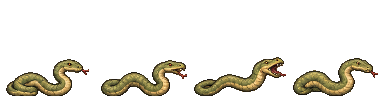
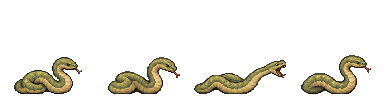
fix: align v1.2.4 feed display and seasonal artwork

diff --git a/tests/test_v124.c b/tests/test_v124.c
@@ -415,7 +415,52 @@ void test_v124_catalog(void) {
 }
 
 void test_v124_harvest_actual_tick(void) {
-    World *w=fresh124(42);CHECK(w);Building *b=facility124(w,CORE_BLD_CROPLAND,20,20);CHECK(b);b->crop_year=1;b->crop_labor_milli=2*540*24*1000;
-    w->clock.tick=24*144+47;CHECK_EQ(core_tick(w,1),CORE_OK);CHECK_EQ(b->annual_harvest_total,360000);CHECK_EQ(b->annual_harvest_released,36000);CHECK_EQ(b->annual_harvest_day,25);
-    CHECK_EQ(core_tick(w,1),CORE_OK);CHECK_EQ(b->annual_harvest_released,36000);core_destroy(w);
+    World *w = fresh124(42);
+    CHECK(w);
+    Building *b = facility124(w, CORE_BLD_CROPLAND, 20, 20);
+    CHECK(b);
+    b->crop_year = 1;
+    b->crop_labor_milli = 2 * 540 * 24 * 1000;
+    w->clock.tick = 24 * 144 + 47;
+    CHECK_EQ(core_tick(w, 1), CORE_OK);
+    CHECK_EQ(b->annual_harvest_total, 360000);
+    CHECK_EQ(b->annual_harvest_released, 36000);
+    CHECK_EQ(b->annual_harvest_day, 25);
+    CHECK_EQ(core_tick(w, 1), CORE_OK);
+    CHECK_EQ(b->annual_harvest_released, 36000);
+    core_destroy(w);
+}
+
+void test_v124_livestock_daily_budget(void) {
+    World *w = fresh124(10);
+    CHECK(w);
+    Building *ranch = facility124(w, CORE_BLD_RANCH, 20, 20),
+             *pasture = facility124(w, CORE_BLD_PASTURE, 30, 20);
+    CHECK(ranch && pasture);
+    const int kinds[7] = {7, 9, 8, 10, 32, 33, 34};
+    w->bank.amount[CORE_RES_GOLD] = 1000;
+    for (int p = 0; p < w->expansion->cells; p++)
+        w->expansion->tiles[p].biome = CORE_BIOME_GRASS;
+    for (int k = 0; k < 7; k++)
+        CHECK_EQ(core_expansion_buy_animal(w, k == 1 || k == 3 ? ranch->id : pasture->id, kinds[k]), CORE_OK);
+    const int feed[4] = {2480, 1614, 1240, 808};
+    for (int mode = 0; mode < 4; mode++) {
+        w->clock.tick = (mode % 2 ? 0 : 36 * 144);
+        w->bank.amount[CORE_RES_FOOD] = 100;
+        w->expansion->fractional[CORE_RES_FOOD] = 0;
+        for (int i = 0; i < w->expansion->animal_count; i++)
+            if (w->expansion->animals[i].owner) {
+                CoreAnimalView *a = &w->expansion->animals[i];
+                CoreLivestockInfo info;
+                core_expansion_livestock_info(a->kind, CORE_BLD_PASTURE, &info);
+                a->age = mode < 2 ? info.mature_days + 1 : 0;
+            }
+        int32_t daily[CORE_RES_COUNT];
+        CHECK_EQ(core_expansion_daily_requirements(w, daily), CORE_OK);
+        CHECK_EQ(daily[CORE_RES_FOOD], 8000 + feed[mode]);
+        expansion_animal_daily(w);
+        CHECK_EQ(ranch->feed_milli + pasture->feed_milli, feed[mode]);
+        CHECK_EQ(expansion_bank_have(w, CORE_RES_FOOD), 100000 - feed[mode]);
+    }
+    core_destroy(w);
 }

diff --git a/core/src/expansion_animals.c b/core/src/expansion_animals.c
@@ -18,6 +18,24 @@ int expansion_livestock_slot(int kind) {
     return -1;
 }
 static int livestock(int kind) { return expansion_livestock_slot(kind); }
+/* 실제 소비와 자원 경고가 같은 연령·초지·겨울 계산을 사용합니다. */
+int expansion_animal_feed(const World *w, const CoreAnimalView *a, const Building *b) {
+    int k = livestock(a->kind);
+    const ExpansionState *e = w->expansion;
+    if (k < 0 || !e || !b || b->state != CORE_BSTATE_ACTIVE)
+        return 0;
+    int feed = FEED[k] / (a->age < MATURE[k] ? 2 : 1), grass = 0;
+    if (b->type == CORE_BLD_PASTURE && (k == 0 || k == 2 || k >= 4) && exp_season(w) != 3) {
+        for (int y = b->y - 3; y < b->y + b->h + 3; y++)
+            for (int x = b->x - 3; x < b->x + b->w + 3; x++)
+                if (grid_in_bounds(&w->grid, x, y) && expansion_center_distance(b, x, y) <= 3 &&
+                    e->tiles[grid_index(&w->grid, x, y)].biome == CORE_BIOME_GRASS)
+                    grass++;
+        if (grass >= 12)
+            feed = k == 6 ? (feed * 850 + 999) / 1000 : (feed + 1) / 2;
+    }
+    return feed;
+}
 CORE_API int32_t core_expansion_livestock_info(int32_t kind, int32_t type, CoreLivestockInfo *out) {
     if (!out)
         return CORE_ERR_NULL_ARG;
@@ -128,16 +146,7 @@ void expansion_animal_daily(World *w) {
             a->alive = 0;
             continue;
         }
-        int feed = FEED[k] / (a->age < MATURE[k] ? 2 : 1), grass = 0;
-        if (b->type == CORE_BLD_PASTURE && (k == 0 || k == 2 || k >= 4) && exp_season(w) != 3) {
-            for (int y = b->y - 3; y < b->y + b->h + 3; y++)
-                for (int x = b->x - 3; x < b->x + b->w + 3; x++)
-                    if (grid_in_bounds(&w->grid, x, y) && expansion_center_distance(b, x, y) <= 3 &&
-                        e->tiles[grid_index(&w->grid, x, y)].biome == CORE_BIOME_GRASS)
-                        grass++;
-            if (grass >= 12)
-                feed = k == 6 ? (feed * 850 + 999) / 1000 : (feed + 1) / 2;
-        }
+        int feed = expansion_animal_feed(w, a, b);
         int paid = exp_clamp(expansion_bank_have(w, CORE_RES_FOOD), 0, feed);
         (void)expansion_bank_add(w, CORE_RES_FOOD, -paid, CORE_LEDGER_CONSUMPTION);
         b->feed_milli += paid;

diff --git a/tools/pack_v124_art.c b/tools/pack_v124_art.c
@@ -235,6 +235,7 @@ static void v124_animals(const char *in, const char *out) {
     Image walks = GenImageColor(384, 3360, BLANK), attacks = GenImageColor(384, 3360, BLANK),
           swims = GenImageColor(384, 3360, BLANK), babies = GenImageColor(384, 3360, BLANK),
           idle = GenImageColor(576, 576, BLANK);
+    Image added_attack=read_png(in,"animal_attacks_additional.png");
     const char *new_names[5] = {"zebra.png", "capybara.png", "goat.png", "alpaca.png", "turkey.png"},
                *pets[7] = {"cow", "sheep", "pig", "chicken", "goat", "alpaca", "turkey"};
     for (int kind = 0; kind < CORE_EXP_ANIMALS; kind++) {
@@ -265,7 +266,8 @@ static void v124_animals(const char *in, const char *out) {
             }
             UnloadImage(source);
         }
-        /* 전용 공격 프레임이 없는 신규 반격종은 같은 외형의 이동 프레임을 재사용합니다. */
+        if(kind==2||kind==4||kind==15||kind==22){int row=kind==2?0:kind==4?1:kind==15?2:3;UnloadImage(attack);attack=v124_row(added_attack,row,0,4,4,4,96);}
+        /* 사용하지 않는 공격 칸은 비워 두고 실제 공격종만 등록합니다. */
         if (info.attack && GetImageAlphaBorder(attack, .1f).width < 1) {
             UnloadImage(attack);
             attack = ImageCopy(walk);
@@ -313,6 +315,7 @@ static void v124_animals(const char *in, const char *out) {
     UnloadImage(attacks);
     UnloadImage(swims);
     UnloadImage(babies);
+    UnloadImage(added_attack);
     UnloadImage(old_walk);
     UnloadImage(old_attack);
     UnloadImage(old_swim);

diff --git a/game/src/render.c b/game/src/render.c
@@ -450,9 +450,9 @@ static void building(GameApp *a, int index) {
     if (farm_row(b->type) >= 0 && b->type != CORE_BLD_GARDEN &&
         a->session.summary.season == CORE_SEASON_AUTUMN) {
         CoreHarvestView h;
-        if (core_expansion_harvest(a->session.world, b->id, &h) == CORE_OK && h.release_day >= 25 &&
-            h.release_day <= 30 && h.total_milli > 0) {
-            int frame = h.release_day - 25;
+        if (core_expansion_harvest(a->session.world, b->id, &h) == CORE_OK && h.year==a->session.summary.year &&
+            (h.release_day-1)%48>=24 && (h.release_day-1)%48<=29 && h.total_milli > 0) {
+            int frame = (h.release_day-1)%48-24;
             sprite(a->assets.harvest_phases, (Rectangle){frame * 128.0f, 0, 128, 128},
                    (Rectangle){dest.x + dest.width * .35f, dest.y + dest.height * .3f, dest.width * .4f,
                                dest.height * .4f},

diff --git a/cli/format.c b/cli/format.c
@@ -63,7 +63,7 @@ static const char *const EFFECT_TEXTS[CORE_EFFECT_COUNT][3] = {
     {u8"앓는 시간", "-", "%"},           {u8"집 한 채의 난방 목재", "-", ""}, {u8"습격 때 건물 피해", "-", "%"}};
 
 static const char *const BUILDING_NAMES[CORE_BLD_COUNT] = {
-    u8"영주관", u8"주택", u8"농장",   u8"채집 오두막", u8"벌목장", u8"채석장", u8"마정석 광산", u8"창고",
+    u8"영주관", u8"주택", u8"농장",   u8"채집장", u8"벌목장", u8"채석장", u8"마정석 광산", u8"창고",
     u8"시장",   u8"병영", u8"감시탑", u8"성벽",        u8"성문",   u8"치료소", u8"마탑",        u8"도로"};
 
 static const char *const PLACE_RESULTS[CORE_PLACE_COUNT] = {

diff --git a/core/src/expansion_v121.c b/core/src/expansion_v121.c
@@ -242,7 +242,7 @@ CORE_API int32_t core_expansion_daily_requirements(const CoreWorld *w,int32_t ou
     }
     for(int i=0;i<w->expansion->animal_count;i++) {
         const CoreAnimalView *a=&w->expansion->animals[i];if(!a->alive||!a->owner)continue;
-        out[CORE_RES_FOOD]+=a->kind==7?600:a->kind==9?450:a->kind==8?350:a->kind==10?150:0;
+        out[CORE_RES_FOOD]+=expansion_animal_feed(w,a,entity_find_building(w,a->owner));
     }
     for(int i=0;i<w->building_count;i++) {
         const Building *b=w->buildings[i];if(b->state!=CORE_BSTATE_ACTIVE)continue;

diff --git a/core/src/expansion.h b/core/src/expansion.h
@@ -77,6 +77,7 @@ int expansion_forecast_jitter(Rng *rng, int band);
 int expansion_is_medical(int type);
 int expansion_is_phantom(int kind);
 int expansion_livestock_slot(int kind);
+int expansion_animal_feed(const World *world,const CoreAnimalView *animal,const Building *owner);
 int expansion_lighthouse_bonus(const World *world, const Building *building);
 void expansion_harvest_release(World *world);
 int64_t expansion_harvest_deferred(const Building *building);

diff --git a/tests/test_list.h b/tests/test_list.h
@@ -143,3 +143,4 @@ TEST_ENTRY(v124_real_v11_preserved)
 TEST_ENTRY(v124_migrate_barracks)
 TEST_ENTRY(v124_catalog)
 TEST_ENTRY(v124_harvest_actual_tick)
+TEST_ENTRY(v124_livestock_daily_budget)

diff --git a/docs/V1_2_4_IMPLEMENTATION.md b/docs/V1_2_4_IMPLEMENTATION.md
@@ -11,11 +11,11 @@
 - 등급별 이주2~4/3~5/3~6/4~6/4~7 및2·3일 가중 대기, 겨울 절반1회·주거 제한. 개척지의 확정 이주와8인 보호는 유지합니다.
 - 승급 시설은 현재 등급에서 가능한 AND/OR 행으로 통일했습니다. UI의 빨강/초록과 실제 ready가 같은 행을 읽고, 봇도 누락 시설을 건설합니다.
 - 동물35종의 수치/서식 표, 일반22·환상6·가축7을 명시적으로 구분합니다. 수렵압력은 제거하고 지역별 상한/생물량/야생360 및 시야 밖 스폰은 유지합니다.
-- 축사·방목장의 가능종과7종 사료/성장/번식/산출/구매를 적용했습니다. 금화는 정수 재고와 밀리 잔액의 합으로 검증하고, 실패 시 선차감하지 않습니다. 기존 부적격 가축은 유지하지만 신규 구매·번식은 허용하지 않습니다.
+- 축사·방목장의 가능종과7종 사료/성장/번식/산출/구매를 적용했습니다. 금화는 정수 재고와 밀리 잔액의 합으로 검증하고, 실패 시 선차감하지 않습니다. 상단 필수 식량 경고도7종의 성체/새끼·초지·겨울 실제 사료 계산을 공유합니다. 기존 부적격 가축은 유지하지만 신규 구매·번식은 허용하지 않습니다.
 - 상인85종 CSV, 기존29 ID 보존,24~36일 재방문. 방문별 제안은 유향 자원 그래프의 순환을 차단합니다. 중복 nonce는 재지급하지 않습니다.
 - 천문대 예보에 대역별 탐지·오보·사건명 오류·날짜 흔들림·이력 상태를 적용합니다. 월드 RNG와 분리하고 같은 날 캐시를 사용합니다. 실제 사건 일정은 변경하지 않습니다.
 - 낚시터1척·항구2척, 실제 출근자만 최대2인/척 승선. 고급/소형 선체·후미 그물·항적·승무원 위치를 분리했고 조업 연출은 생산량과 분리합니다.
-- 풍차/관개 수차4방향 오버레이·야간 등대 조명·새 도로 연결재질·의원/등대/새5종 동물을 적용했습니다. 동물 기존 걷기4장과 공격은 재사용하며 신규 원화도4프레임만 패킹합니다.
+- 풍차/관개 수차4방향 오버레이·야간 등대 조명·새 도로 연결재질·의원/등대/새5종 동물을 적용했습니다. 동물 기존 걷기4장과 공격은 재사용하고 누락된 산양·여우·뱀·타조 공격은4프레임을 새로 제작했습니다. 신규 동물 원화도4프레임만 패킹합니다.
 - 건물 알파 마스크를 로드 시 보관해 GPU 읽기 없이 픽셀 툴팁을 판정합니다. 유닛 우선·체력바 최소32×6픽셀·선택/위험8픽셀·피격3초·하단 카드 위 토스트3개를 적용했습니다.
 
 실행한 검사와 한계는 V1_2_4_QA.md에 기록합니다.

diff --git a/CREDITS.md b/CREDITS.md
@@ -2,7 +2,7 @@
 
 ## v1.2.4 그림 (2026-11-25)
 
-내장 image_gen으로 의원·등대·고급 어선·두 도로 재질·신규5동물·풍차/관개농장 본체와 회전 부품·등대 조명·소형/고급 그물·항적·수확6단계를 제작했습니다. art/v124 원화와 V124_PROMPTS.json에 참조 및 생성 요청을 보존하고 tools/pack_v124_art.c로 패킹합니다. 사용자 후속 지시대로 전용 피격·사망은 적용/배포하지 않으며 동물 이동·수영·새끼는 모두4프레임만 사용합니다. 기존30종 걷기·공격·수영·새끼와 이전 알파카 원화를 재사용했습니다. 신규 반격종에 별도 공격 그림이 없으면 동일 외형의 이동 프레임을 사용합니다. 적용130목록 행과 추가 공용 아틀라스의 치수/SHA256은 art/V124_MANIFEST.json에 기록합니다. 프로젝트가 보유하는 새 원화와 파생 결과의 권리는 기존과 같이 CC0 1.0으로 헌정합니다.
+내장 image_gen으로 의원·등대·고급 어선·두 도로 재질·신규5동물·풍차/관개농장 본체와 회전 부품·등대 조명·소형/고급 그물·항적·수확6단계를 제작했습니다. art/v124 원화와 V124_PROMPTS.json에 참조 및 생성 요청을 보존하고 tools/pack_v124_art.c로 패킹합니다. 사용자 후속 지시대로 전용 피격·사망은 적용/배포하지 않으며 동물 이동·수영·새끼는 모두4프레임만 사용합니다. 기존30종 걷기·공격·수영·새끼와 이전 알파카 원화를 재사용했습니다. 기존 산양·여우·뱀·타조의 누락된 공격 동작도 같은 외형을 참조해4프레임씩 새로 제작했습니다. 적용130목록 행과 추가 공용 아틀라스의 치수/SHA256은 art/V124_MANIFEST.json에 기록합니다. 프로젝트가 보유하는 새 원화와 파생 결과의 권리는 기존과 같이 CC0 1.0으로 헌정합니다.
 
 
 ## v1.2.3 그림 (2026-11-25)
